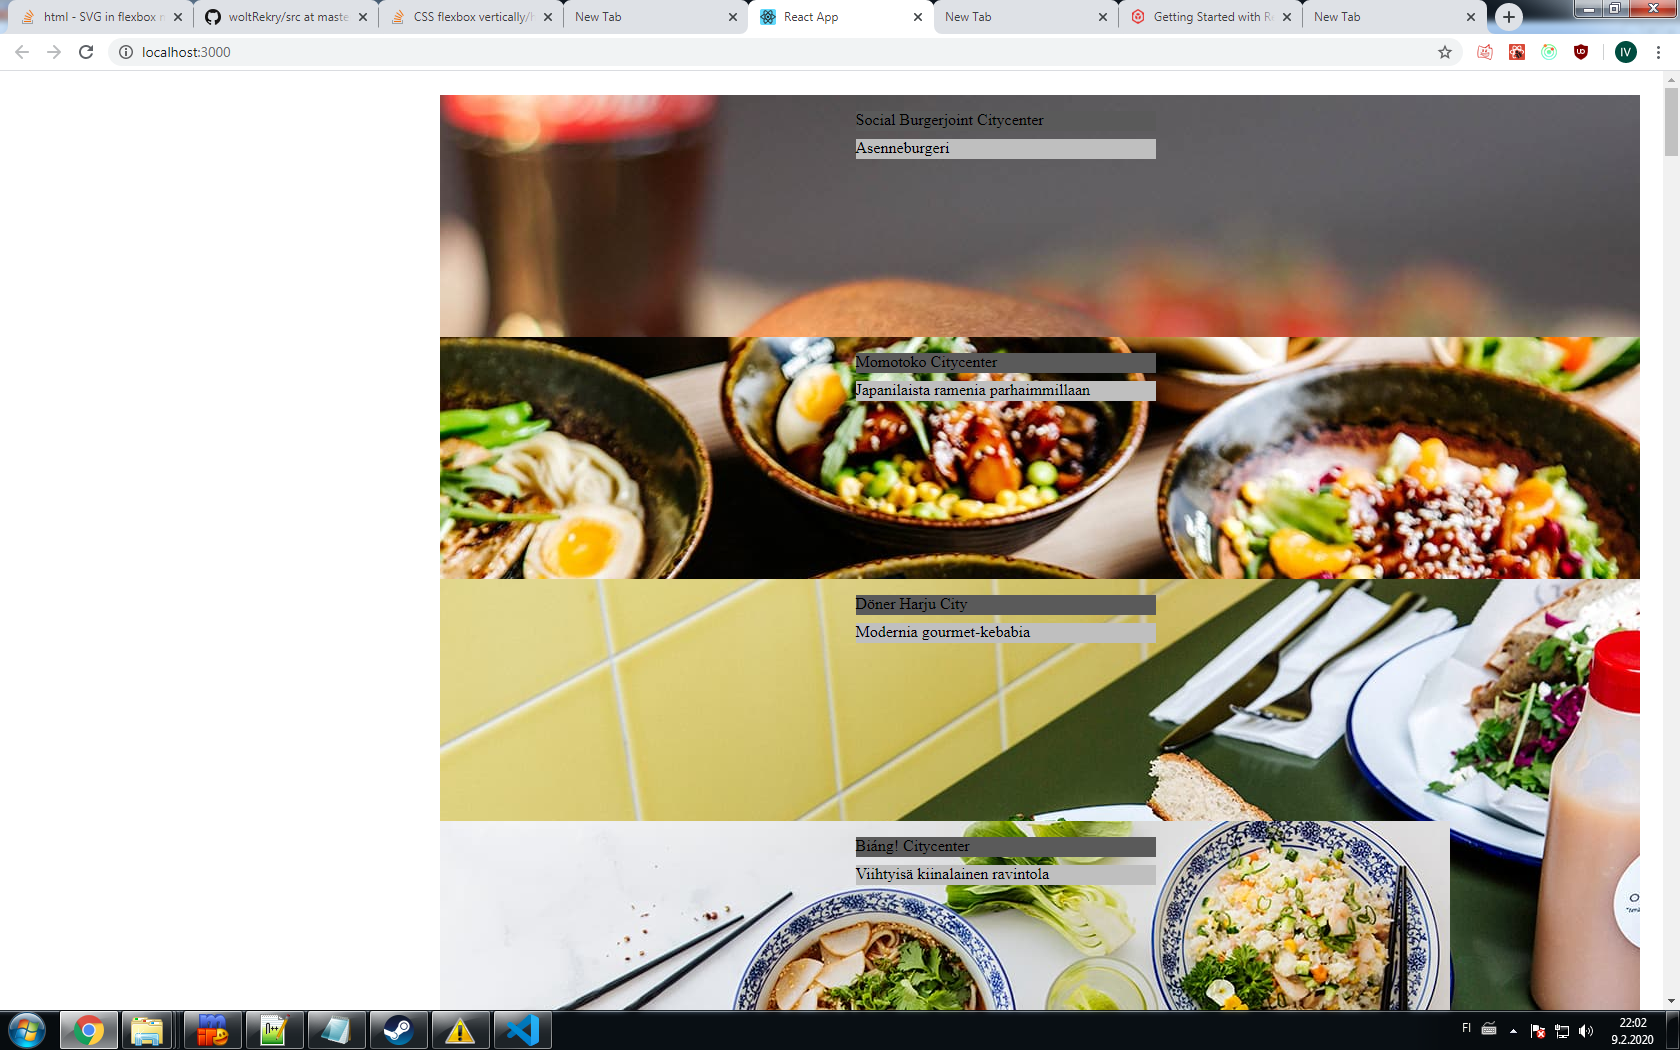
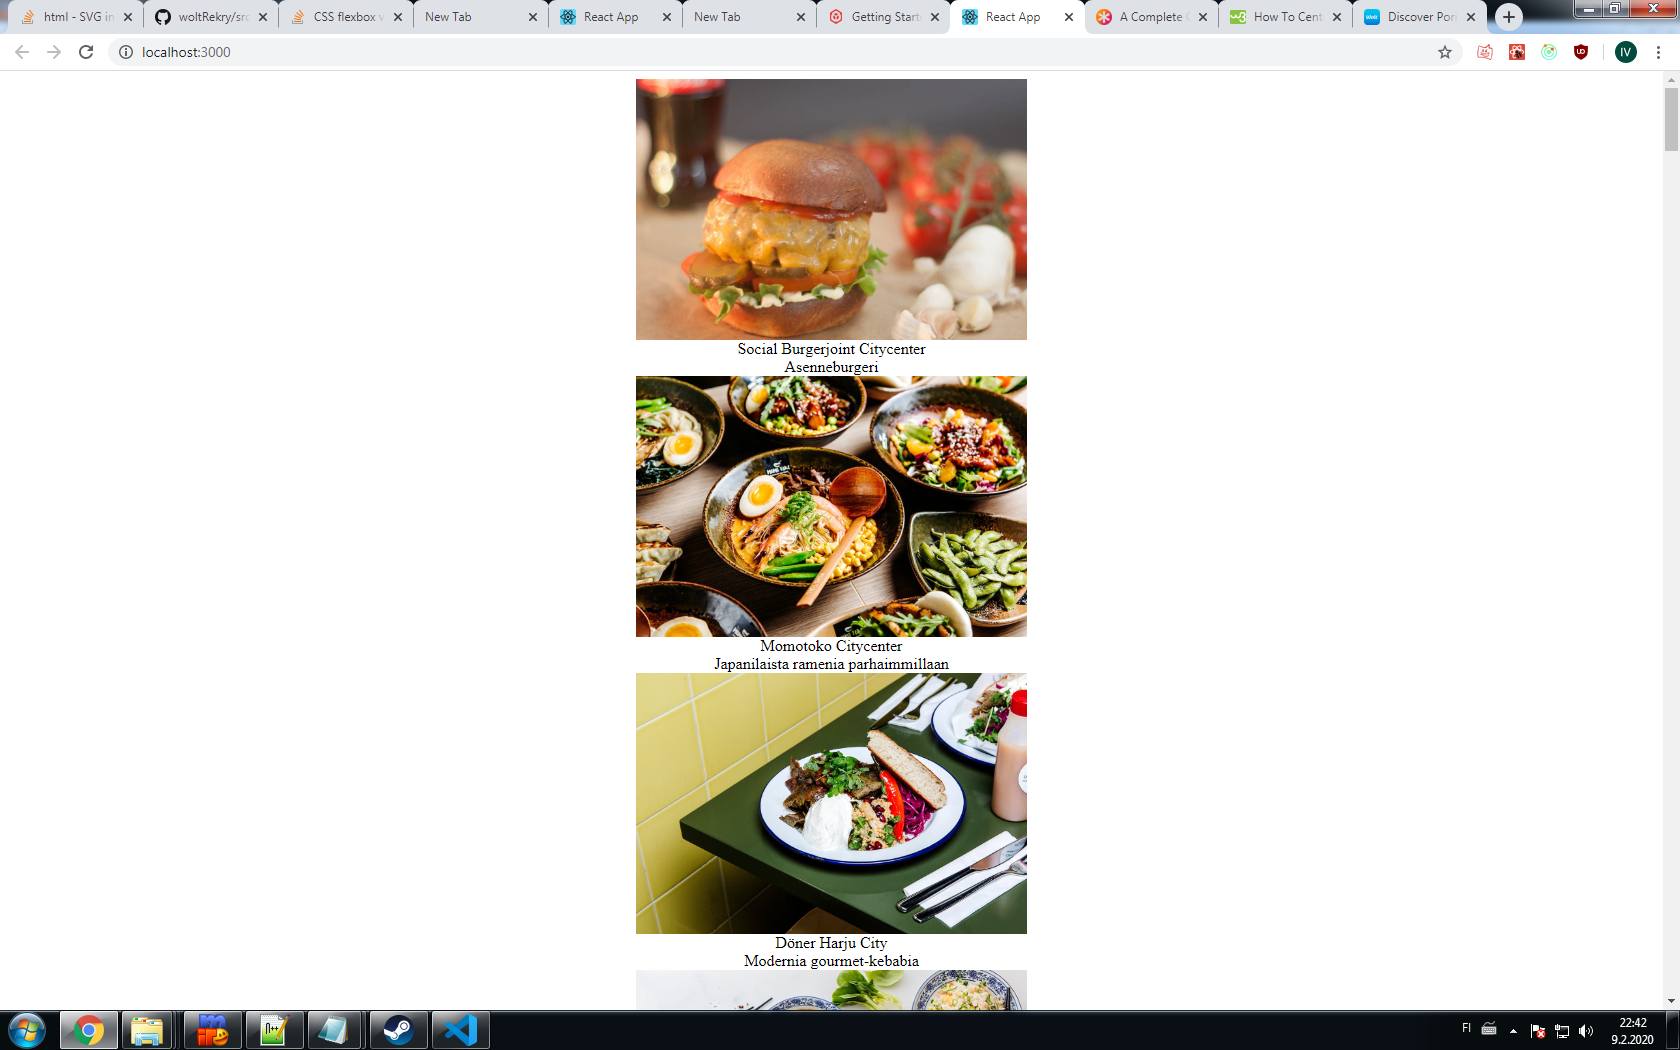
fix

diff --git a/src/view/Restaurants.js b/src/view/Restaurants.js
@@ -5,12 +5,13 @@ import Card from '../components/Card';
 
 const Restaurants = (props) => {
    return (
-     props.restaurants.map((r) => {
-    return (
     <Grid fluid>
+     {props.restaurants.map((r) => {
+    return (
+    
       <Card image = {r.image} name = {r.name} description = {r.description} />
-    </Grid>
-    )}))
+    
+    )})}</Grid>)
 };
 
 const mapStateToProps = (state) => ({

diff --git a/src/components/Card.js b/src/components/Card.js
@@ -9,8 +9,6 @@ const Card = (props) => {
         <Row center="xs" className="card">
             <Col xs={12} sm={4} lg={3}>
                 <Hero image = {props.image}/>
-            </Col>
-            <Col xs={12} sm={4} lg={3}>
                 <Field name = {props.name} description = {props.description}/>
             </Col>
         </Row>

diff --git a/src/components/Hero.js b/src/components/Hero.js
@@ -3,9 +3,7 @@ import '../css/Hero.css';
 
 const Hero = (props) => {
     return (
-    <div className="hero">
-        <img src={props.image} alt="logo" />
-    </div>
+        <img  className="hero" src={props.image} alt="logo" />
     )
 }
 

diff --git a/src/css/Hero.css b/src/css/Hero.css
@@ -1,7 +1,5 @@
 .hero {
-    background-color: #5a5a5a;
-    min-height: 120px;
-    max-height: 210px;
-    min-width: 120px;
-    max-width: 140px;
+    display:  block;
+    margin: auto;
+    width: 100%;
 }

diff --git a/src/css/Card.css b/src/css/Card.css
@@ -1,5 +1,3 @@
 .card {
-    background: white;
-    padding: 1em;
-    border-radius: 6px;
+    display: flex;
 }
